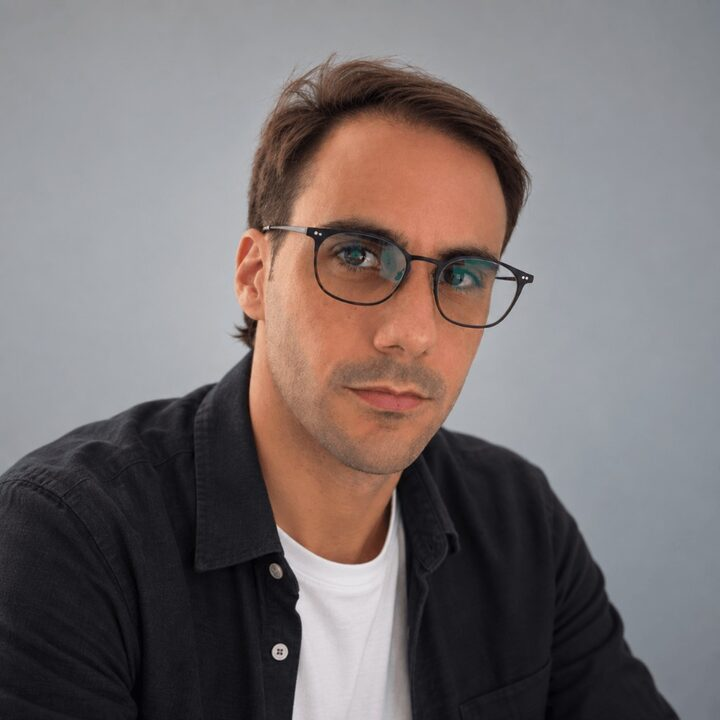
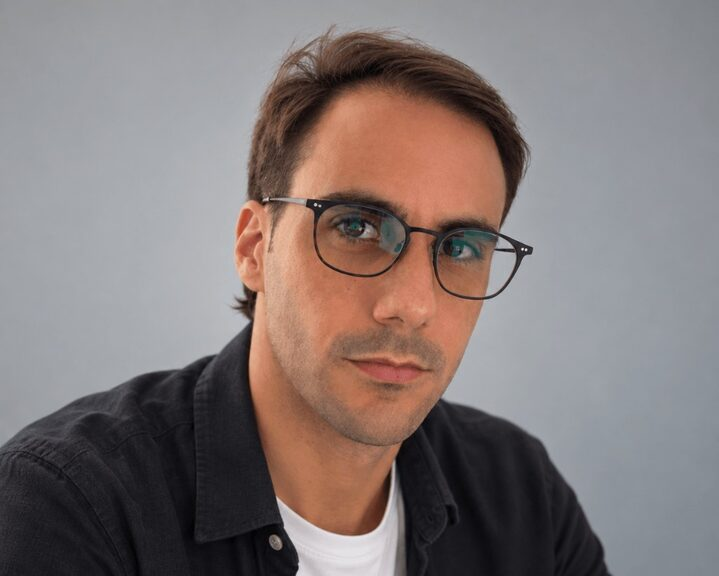
Tighten About hierarchy: shorter portrait, clearer type, core stack first.
Recrop the headshot, bump body copy size, emphasize JavaScript/React/Angular/backend chips, and drop the portfolio-apology line under Reviver.

diff --git a/portfolio/src/styles/site-pages.sass b/portfolio/src/styles/site-pages.sass
@@ -382,13 +382,13 @@
 
 .about-intro
   display: grid
-  gap: clamp(1.5rem, 4vw, 2.75rem)
+  gap: clamp(1.25rem, 3.5vw, 2.25rem)
   align-items: center
-  margin-bottom: clamp(2.75rem, 7vw, 4.5rem)
+  margin-bottom: clamp(2.25rem, 5.5vw, 3.5rem)
 
   @media (min-width: 860px)
-    grid-template-columns: minmax(14rem, 0.9fr) minmax(0, 1.35fr)
-    gap: clamp(2rem, 5vw, 3.5rem)
+    grid-template-columns: minmax(12rem, 0.72fr) minmax(0, 1.4fr)
+    gap: clamp(1.75rem, 4vw, 3rem)
 
   &__media
     min-width: 0
@@ -396,14 +396,14 @@
   &__photo
     display: block
     width: 100%
-    max-width: 22rem
+    max-width: 18.5rem
     margin: 0 auto
-    aspect-ratio: 1 / 1
-    border-radius: 1.35rem
+    aspect-ratio: 5 / 4
+    border-radius: 1.2rem
     object-fit: cover
-    object-position: center 18%
+    object-position: center 12%
     border: 1px solid rgba(255, 255, 255, 0.16)
-    box-shadow: 0 24px 48px rgba(0, 0, 0, 0.45)
+    box-shadow: 0 20px 40px rgba(0, 0, 0, 0.42)
     background: #141820
 
   &__copy
@@ -426,22 +426,22 @@
 
   &__role
     margin: 0.55rem 0 0
-    font-size: 0.95rem
+    font-size: 1rem
     letter-spacing: 0.04em
     color: var(--okcd-accent)
 
   &__lede
     margin: 1.25rem 0 0
-    max-width: 38rem
-    font-size: clamp(1.05rem, 2.2vw, 1.2rem)
+    max-width: 40rem
+    font-size: clamp(1.12rem, 2.3vw, 1.28rem)
     line-height: 1.55
     color: rgba(244, 246, 250, 0.92)
 
   &__body
     margin: 1rem 0 0
-    max-width: 40rem
-    font-size: 1rem
-    line-height: 1.6
+    max-width: 42rem
+    font-size: clamp(1.02rem, 1.5vw, 1.1rem)
+    line-height: 1.65
     color: var(--okcd-text-muted)
 
     a
@@ -455,7 +455,7 @@
 
 .about-section-head
   margin: 0 0 clamp(1.35rem, 3vw, 1.85rem)
-  max-width: 42rem
+  max-width: 44rem
 
   &__label
     display: block
@@ -474,15 +474,16 @@
 
   &__lede
     margin: 0.75rem 0 0
+    font-size: clamp(1.02rem, 1.5vw, 1.1rem)
     color: var(--okcd-text-muted)
-    line-height: 1.55
+    line-height: 1.6
 
 .about-expertise
   margin-bottom: clamp(2.75rem, 7vw, 4.5rem)
 
 .expertise-grid
   display: grid
-  gap: 1.15rem 1.5rem
+  gap: 1.25rem 1.75rem
   margin-bottom: clamp(1.75rem, 4vw, 2.5rem)
 
   @media (min-width: 720px)
@@ -493,15 +494,15 @@
   border-left: 2px solid rgba(114, 195, 233, 0.45)
 
   &__title
-    margin: 0 0 0.4rem
-    font-size: 1.05rem
+    margin: 0 0 0.45rem
+    font-size: 1.1rem
     font-weight: 500
     color: var(--okcd-text)
 
   &__text
     margin: 0
-    font-size: 0.95rem
-    line-height: 1.55
+    font-size: clamp(1rem, 1.4vw, 1.06rem)
+    line-height: 1.6
     color: var(--okcd-text-muted)
 
 .stack-panel
@@ -512,48 +513,46 @@
 
   &__title
     margin: 0 0 0.35rem
-    font-size: 1rem
+    font-size: 1.05rem
     font-weight: 500
 
   &__note
-    margin: 0 0 1.15rem
-    font-size: 0.9rem
+    margin: 0 0 1rem
+    font-size: 0.95rem
     color: var(--okcd-text-muted)
-    line-height: 1.45
+    line-height: 1.5
 
-.stack-groups
-  display: grid
-  gap: 1.15rem 1.5rem
-
-  @media (min-width: 640px)
-    grid-template-columns: repeat(2, minmax(0, 1fr))
-
-  @media (min-width: 980px)
-    grid-template-columns: repeat(4, minmax(0, 1fr))
-
-.stack-group
-  &__label
-    margin: 0 0 0.55rem
-    font-size: 0.65rem
+  &__sublabel
+    margin: 1.15rem 0 0.55rem
+    font-size: 0.68rem
     letter-spacing: 0.16em
     text-transform: uppercase
-    color: rgba(244, 246, 250, 0.62)
+    color: rgba(244, 246, 250, 0.58)
 
-  &__list
-    list-style: none
-    margin: 0
-    padding: 0
-    display: flex
-    flex-wrap: wrap
-    gap: 0.4rem
+.stack-core,
+.stack-support
+  list-style: none
+  margin: 0
+  padding: 0
+  display: flex
+  flex-wrap: wrap
+  gap: 0.45rem
 
-    li
-      padding: 0.35rem 0.65rem
-      border: 1px solid rgba(255, 255, 255, 0.16)
-      border-radius: 999px
-      font-size: 0.8rem
-      color: rgba(244, 246, 250, 0.88)
-      background: rgba(0, 0, 0, 0.28)
+.stack-chip
+  padding: 0.35rem 0.7rem
+  border: 1px solid rgba(255, 255, 255, 0.14)
+  border-radius: 999px
+  font-size: 0.82rem
+  color: rgba(244, 246, 250, 0.72)
+  background: rgba(0, 0, 0, 0.22)
+
+  &--primary
+    padding: 0.5rem 0.9rem
+    border-color: rgba(114, 195, 233, 0.4)
+    font-size: 0.92rem
+    font-weight: 500
+    color: #f4f6fa
+    background: rgba(114, 195, 233, 0.12)
 
 .process-timeline
   list-style: none
@@ -596,8 +595,8 @@
 
   &__text
     margin: 0
-    font-size: 0.9rem
-    line-height: 1.45
+    font-size: 0.98rem
+    line-height: 1.5
     color: var(--okcd-text-muted)
 
 .about-process

diff --git a/portfolio/src/about/index.html b/portfolio/src/about/index.html
@@ -60,7 +60,7 @@
 						srcset="../assets/federico-480.jpg 480w, ../assets/federico.jpg 720w"
 						sizes="(max-width: 859px) min(22rem, 70vw), min(22rem, 32vw)"
 						width="720"
-						height="720"
+						height="576"
 						alt="Portrait of Federico Commisso"
 						decoding="async"
 						fetchpriority="low"
@@ -73,7 +73,7 @@
 				<p class="about-intro__role">Software engineer &amp; founder of OKCoded</p>
 				<p class="about-intro__lede">I design, build, and improve digital products — from high-performance websites and interactive frontends to custom applications, integrations, and automation.</p>
 				<p class="about-intro__body">OKCoded is my independent practice: one engineer, end-to-end ownership, and a preference for shipping work that stays maintainable after launch. Not a large agency — a direct technical partner when you need clarity, craft, and accountability.</p>
-				<p class="about-intro__body">Recent public work includes <a href="/work/">Reviver.com</a>, a headless commerce storefront with a careful interaction layer. More case studies will appear here as they are ready to represent the work clearly.</p>
+				<p class="about-intro__body">Recent public work includes <a href="/work/">Reviver.com</a> — a headless commerce storefront with a careful interaction layer.</p>
 			</div>
 		</section>
 
@@ -104,47 +104,26 @@
 			</div>
 
 			<div class="stack-panel">
-				<h3 class="stack-panel__title">Tools I reach for often</h3>
-				<p class="stack-panel__note">Selected technologies from day-to-day product work — not an exhaustive résumé dump.</p>
-				<div class="stack-groups">
-					<div class="stack-group">
-						<p class="stack-group__label">Frontend</p>
-						<ul class="stack-group__list">
-							<li>JavaScript</li>
-							<li>HTML &amp; CSS</li>
-							<li>React</li>
-							<li>Angular</li>
-							<li>Next.js</li>
-						</ul>
-					</div>
-					<div class="stack-group">
-						<p class="stack-group__label">Motion &amp; realtime UI</p>
-						<ul class="stack-group__list">
-							<li>GSAP</li>
-							<li>ScrollTrigger</li>
-							<li>Three.js</li>
-							<li>Framer Motion</li>
-						</ul>
-					</div>
-					<div class="stack-group">
-						<p class="stack-group__label">Product systems</p>
-						<ul class="stack-group__list">
-							<li>REST APIs</li>
-							<li>Auth &amp; roles</li>
-							<li>Dashboards</li>
-							<li>Third-party integrations</li>
-						</ul>
-					</div>
-					<div class="stack-group">
-						<p class="stack-group__label">Mobile &amp; delivery</p>
-						<ul class="stack-group__list">
-							<li>Flutter</li>
-							<li>PWAs</li>
-							<li>GitHub Actions</li>
-							<li>Static &amp; edge hosting</li>
-						</ul>
-					</div>
-				</div>
+				<h3 class="stack-panel__title">Core stack</h3>
+				<p class="stack-panel__note">Primary languages and frameworks first — supporting tools second.</p>
+				<ul class="stack-core">
+					<li class="stack-chip stack-chip--primary">JavaScript</li>
+					<li class="stack-chip stack-chip--primary">React</li>
+					<li class="stack-chip stack-chip--primary">Angular</li>
+					<li class="stack-chip stack-chip--primary">Next.js</li>
+					<li class="stack-chip stack-chip--primary">REST APIs</li>
+					<li class="stack-chip stack-chip--primary">Backend systems</li>
+				</ul>
+				<p class="stack-panel__sublabel">Also comfortable with</p>
+				<ul class="stack-support">
+					<li class="stack-chip">HTML &amp; CSS</li>
+					<li class="stack-chip">GSAP</li>
+					<li class="stack-chip">Three.js</li>
+					<li class="stack-chip">Auth &amp; integrations</li>
+					<li class="stack-chip">Flutter</li>
+					<li class="stack-chip">PWAs</li>
+					<li class="stack-chip">GitHub Actions</li>
+				</ul>
 			</div>
 		</section>
 
